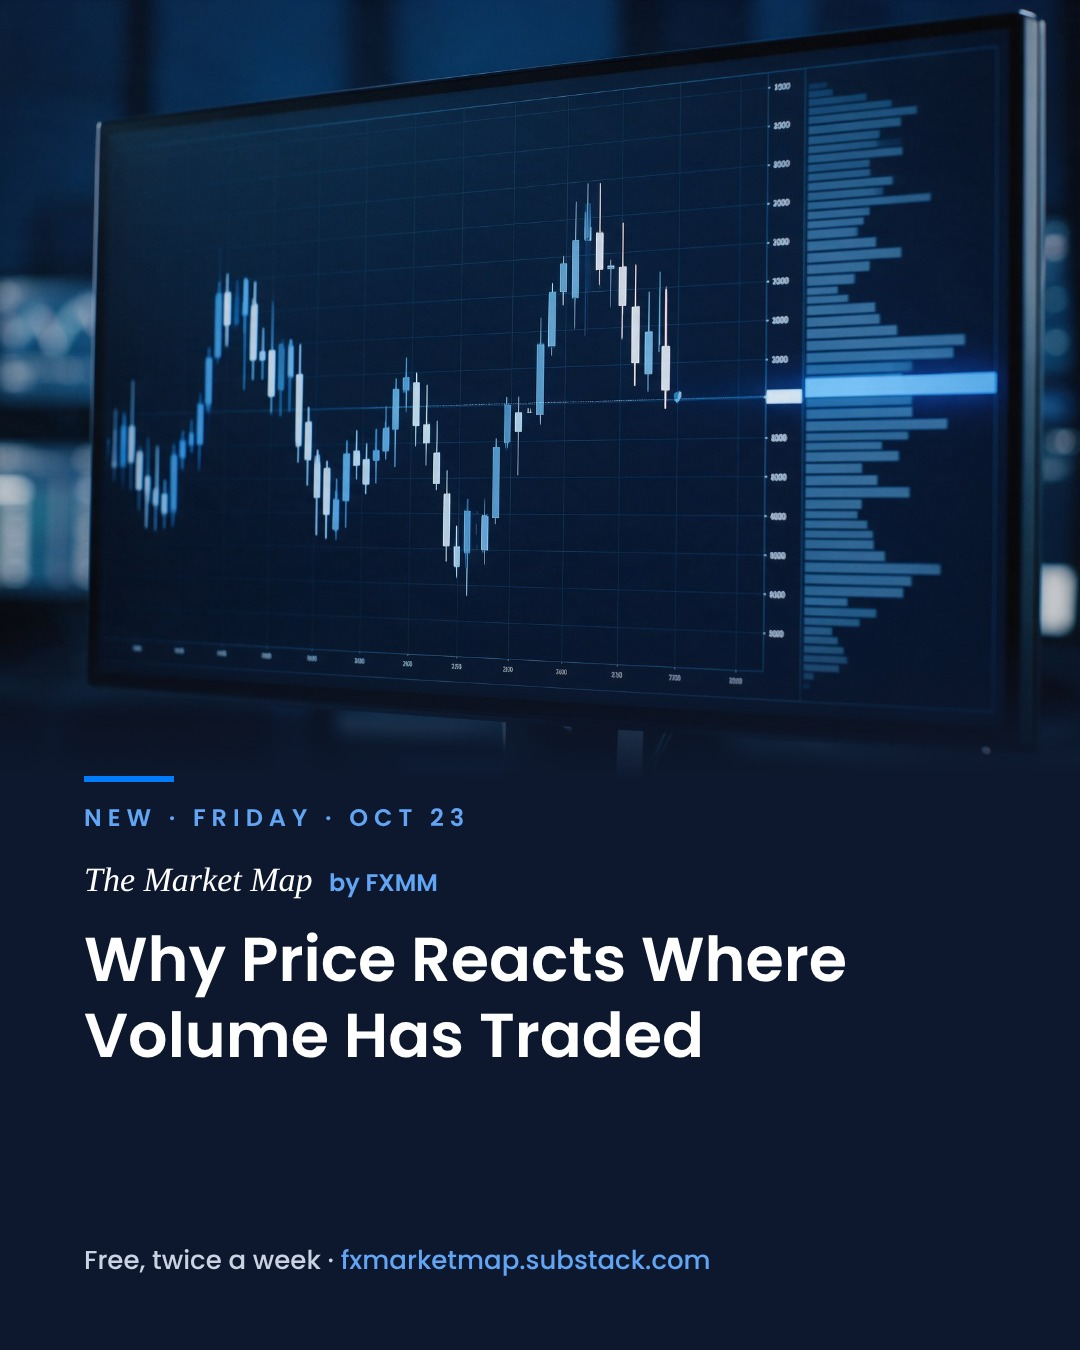
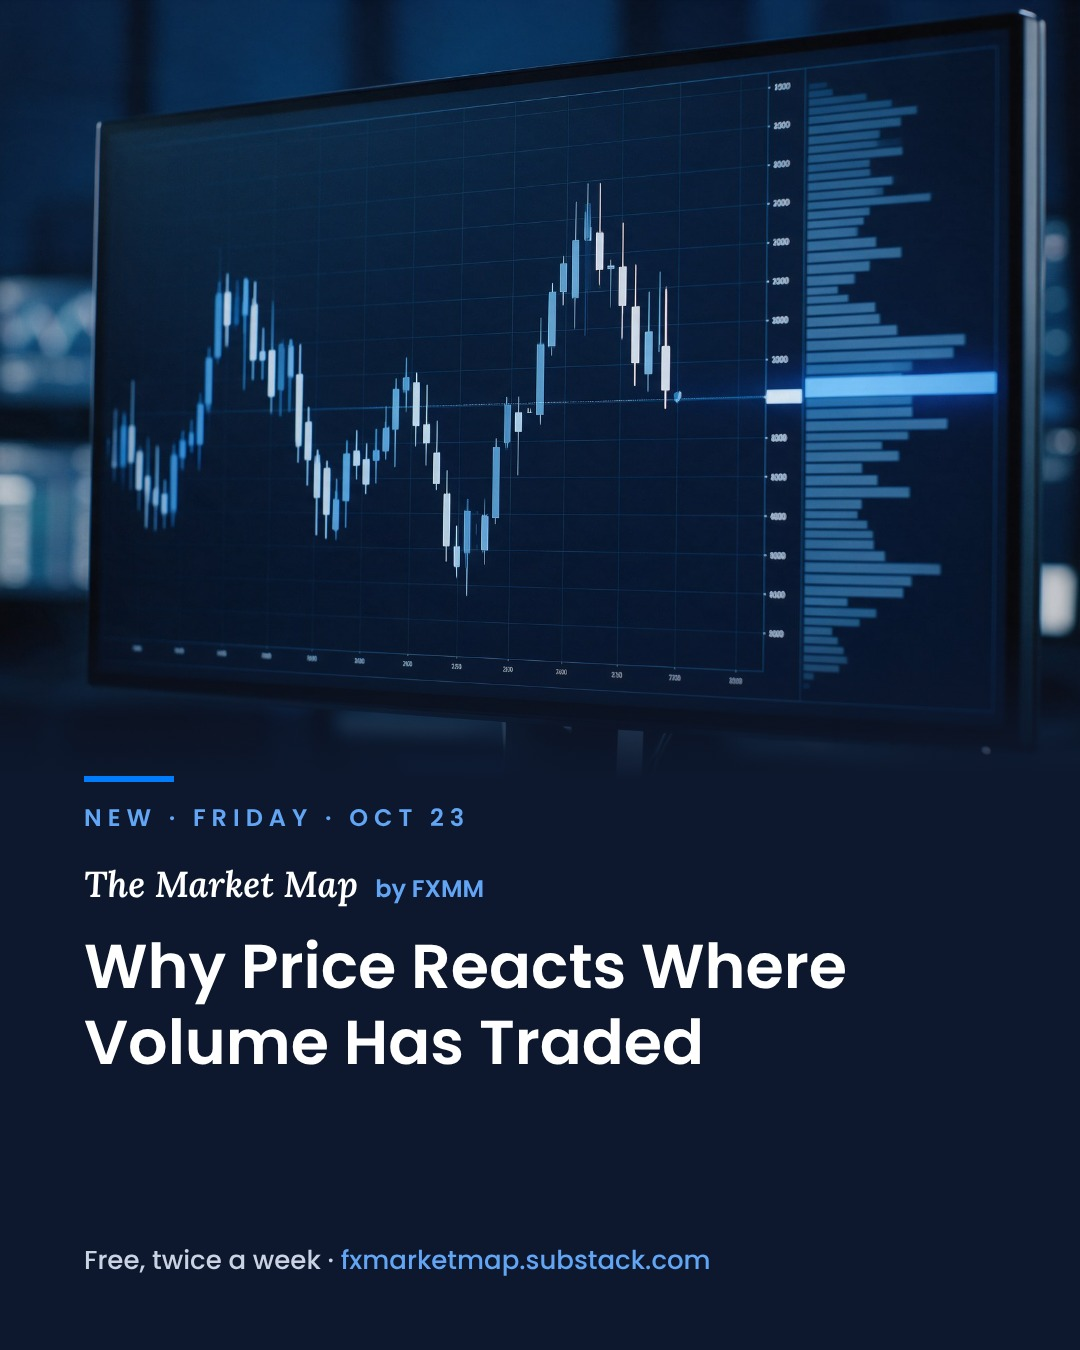
Substack promo cards Oct 23/27 with Lora wordmark
Claude-Session: https://claude.ai/code/session_01VxsYKLABZ3CXgDK8H7oL1R

Changed region(s): [[0.0611, 0.6222, 0.7944, 0.8089], [0.1833, 0.7778, 0.2139, 0.8089]]

diff --git a/templates/xcard/sub_ig.py b/templates/xcard/sub_ig.py
@@ -1,8 +1,8 @@
 import asyncio,os,sys
 from playwright.async_api import async_playwright
 D=os.path.dirname(os.path.abspath(__file__))
-ITEMS=[('a04_cover.jpg','Why Price Reacts Where Volume Has Traded','FRIDAY · OCT 23','50% 50%','sub_oct23.jpg'),
-       ('a05_cover.jpg','Patience Isn\'t a Personality Trait. It\'s a Plan.','TUESDAY · OCT 27','38% 50%','sub_oct27.jpg')]
+ITEMS=[('a04_cover.jpg','Why Price Reacts Where Volume Has Traded','FRIDAY · OCT 23','50% 50%','sub_oct23_lora.jpg'),
+       ('a05_cover.jpg','Patience Isn\'t a Personality Trait. It\'s a Plan.','TUESDAY · OCT 27','38% 50%','sub_oct27_lora.jpg')]
 CSS='''@font-face{font-family:L;font-style:italic;src:url(%s/../fonts/Lora-Italic-Variable.ttf)}@font-face{font-family:P;src:url(%s/poppins-latin-500-normal.woff2)}@font-face{font-family:P6;src:url(%s/poppins-latin-600-normal.woff2)}
 *{margin:0;box-sizing:border-box}body{width:1080px;height:1350px;background:#0D182E;overflow:hidden;position:relative}
 .ph{position:absolute;top:0;left:0;width:1080px;height:780px;background-size:cover}
